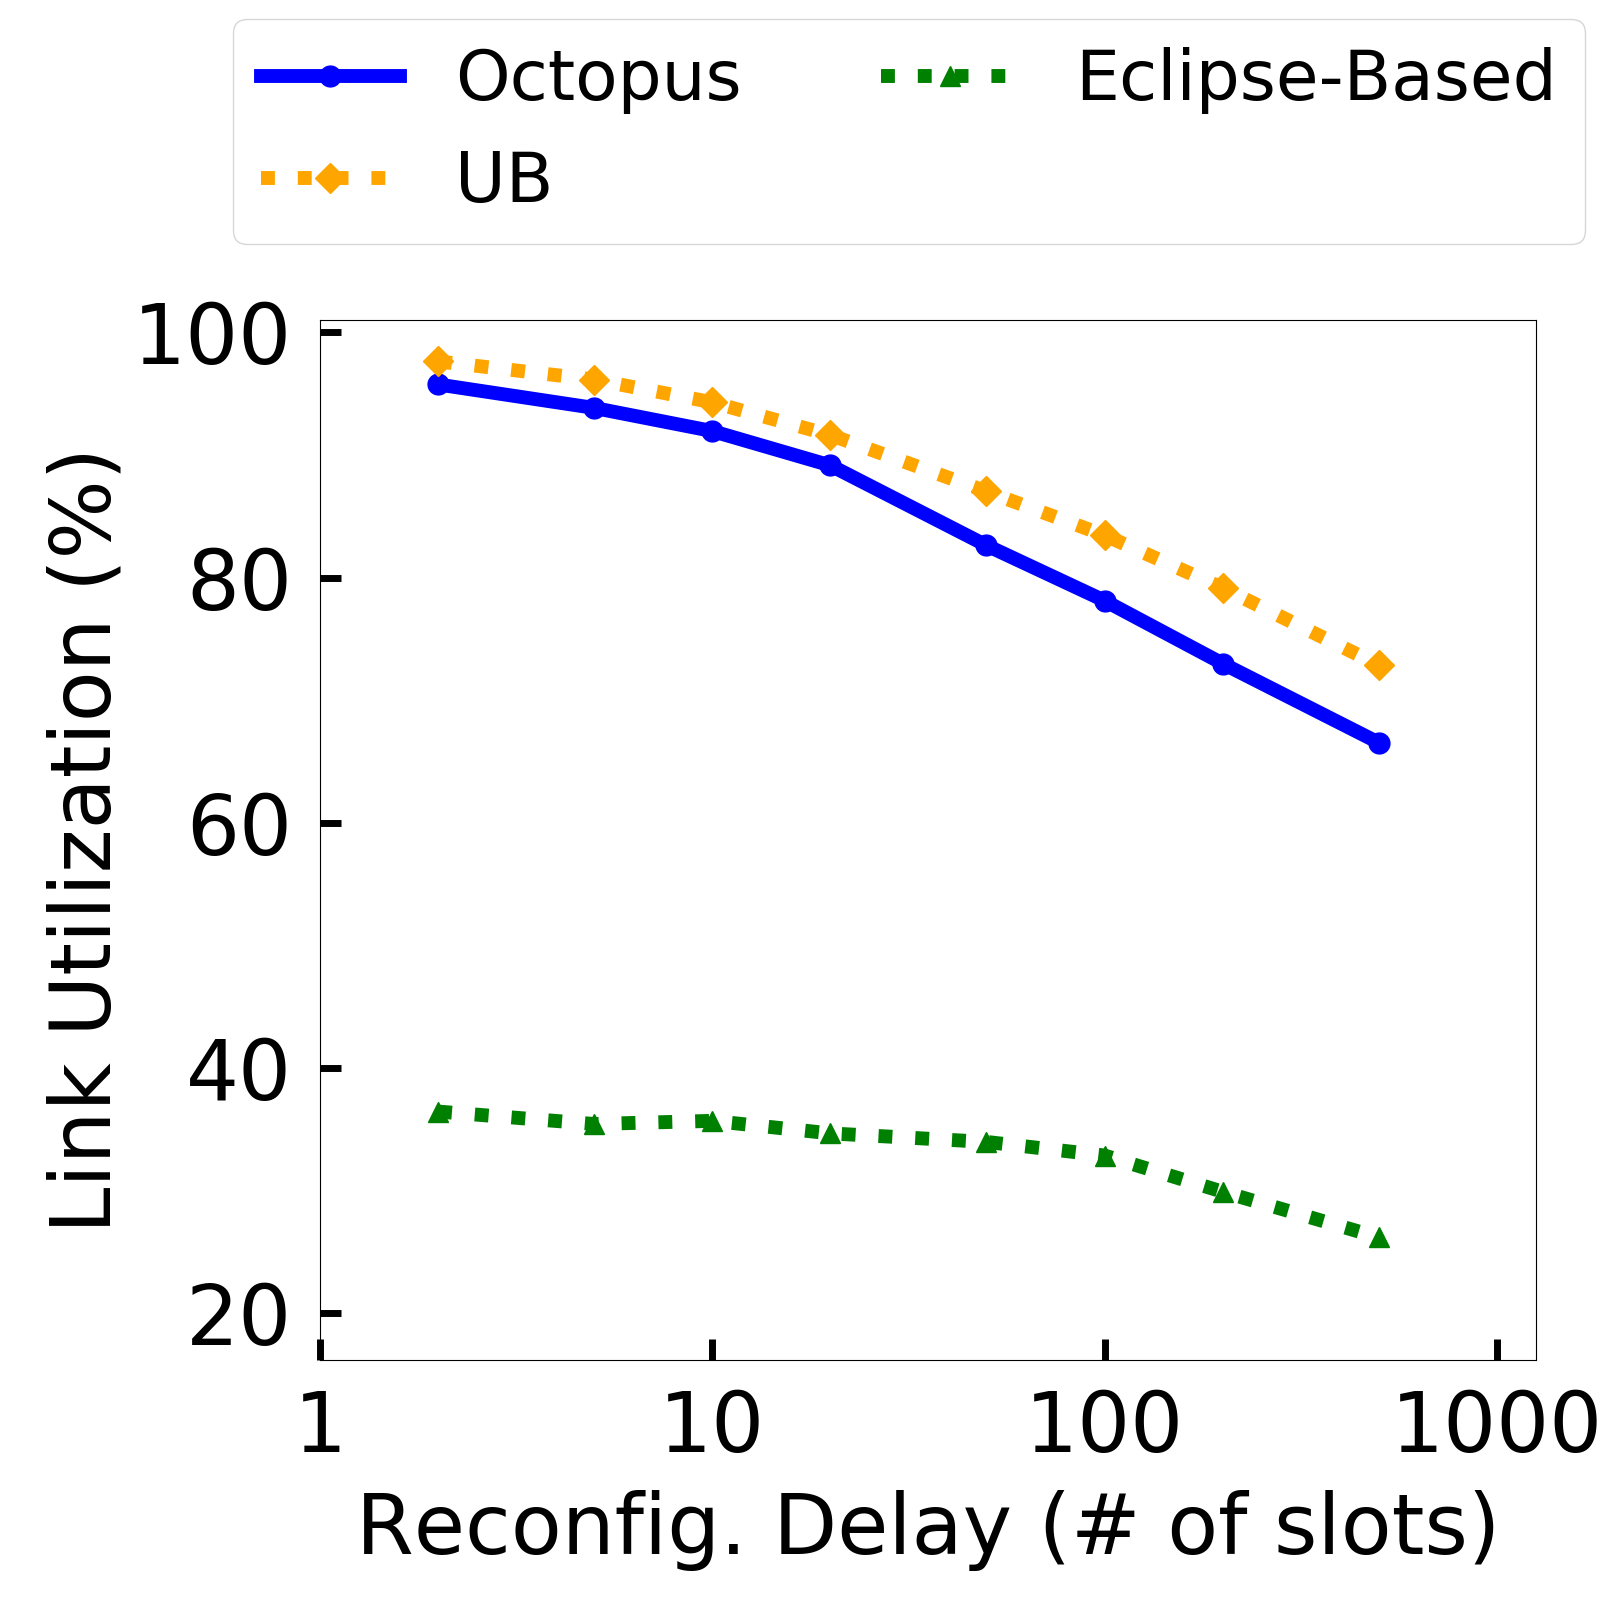
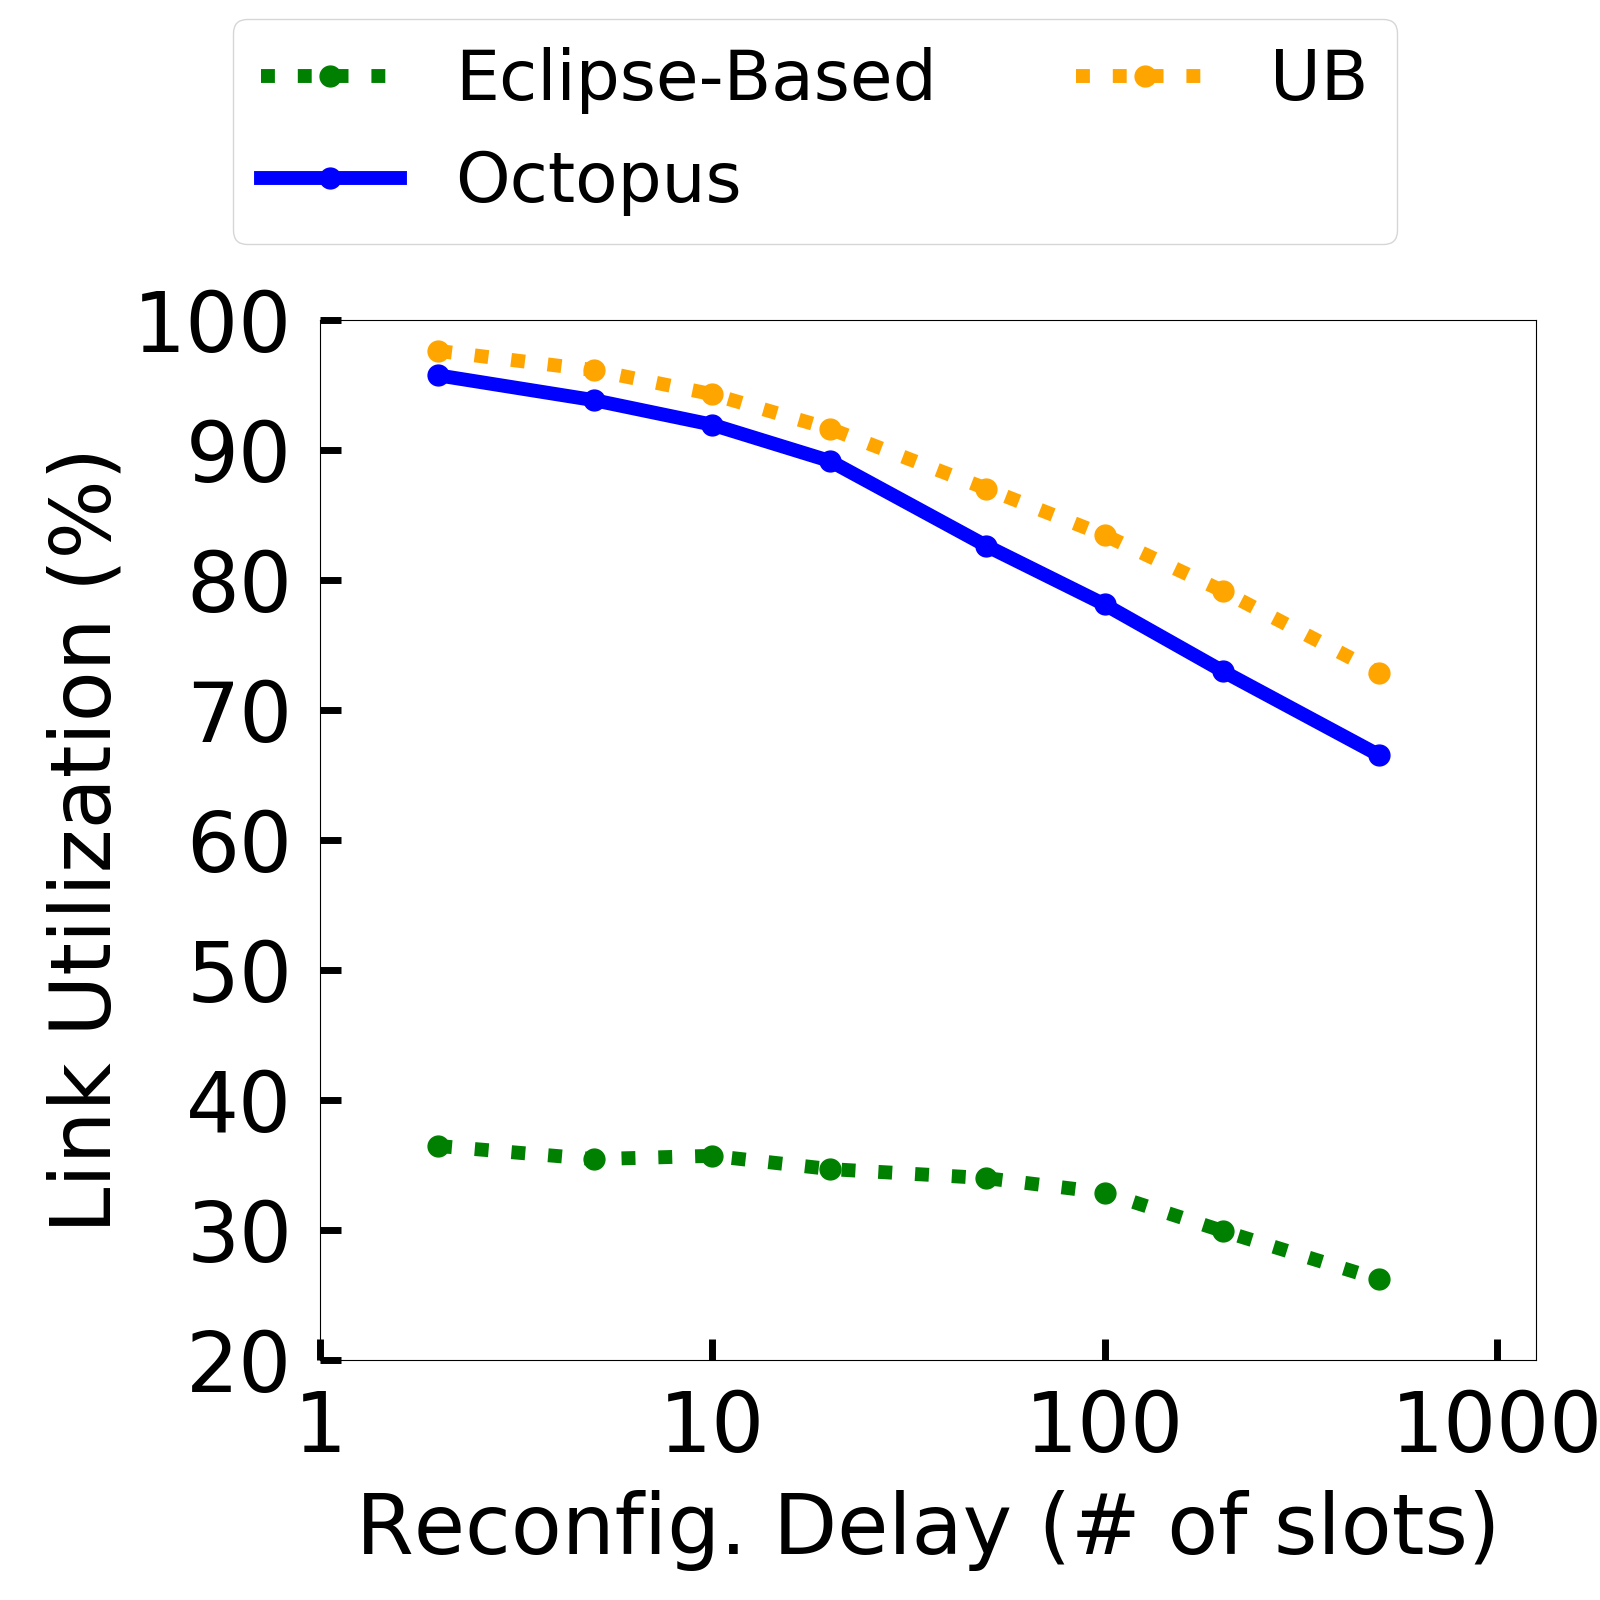
update plots.

diff --git a/plots.py b/plots.py
@@ -14,6 +14,12 @@ from runner import DEFAULT_WINDOW_SIZE
 def average(vals):
 	return float(sum(vals)) / float(len(vals))
 
+def min_max(vals):
+	vals = np.array(vals)
+	return (round(vals.min(), 4), round(vals.max(), 4))
+
+reduce_func  = average
+reduce_func2 = min_max
 
 def getMetric(inpt, output, metric = 'percent_packets_delivered'):
 	if metric == 'percent_packets_delivered':
@@ -42,7 +48,8 @@ def y_fmt(tick_val, pos):
 
 METHOD  = ['Octopus', 'Octopus+', 'Octopus-e', 'Eclipse-Based', 'UB',      'Absolute-UB']
 _COLOR  = ['b',       'c',        'gray',      'g',             'orange',  'r']
-_MARKER = ['o',       'h',        's',         '^',             'D',       'P']
+# _MARKER = ['o',       'h',        's',         '^',             'D',       'P']
+_MARKER = ['o',       'o',        'o',         'o',             'o',       'o']
 _LINE   = ['-',       ':',        ':',         ':',             ':',       '-']
 COLOR   = dict(zip(METHOD, _COLOR))
 MARKER  = dict(zip(METHOD, _MARKER))
@@ -50,10 +57,28 @@ LINE    = dict(zip(METHOD, _LINE))
 
 
 
-def plot_line(table, methods, filename=None, x_label=None, x_log=False, y_label=None, absolute_ub=False):
+def plot_line(table, methods, filename=None, x_label=None, x_log=False, y_label=None, absolute_ub=False, yerr_table=None):
 	'''
 	Args:
 		table: the same table used by function tabulate.tabulate()
+		  NUN_NODE    octopus-r    upper-bound    eclipse
+		----------  -----------  -------------  ---------
+		        25      48.1263        47.4182    38.6041
+		        50      47.3271        47.0469    29.7168
+		        75      51.8396        51.7936    33.1816
+		       100      52.2284        52.0966    32.3763
+		       125      53.7332        53.7551    33.0334
+		       150      53.8109        53.9773    32.2842
+		
+		yerr_table: the same table used by function tabulate.tabulate()
+		  NUN_NODE  octopus-r           upper-bound         eclipse
+		----------  ------------------  ------------------  ------------------
+		       25   (38.8811, 56.3964)  (35.3078, 55.9665)  (25.491, 51.4077)
+		       50   (45.577, 48.3904)   (46.1241, 48.3337)  (27.5965, 32.0417)
+		       75   (49.7072, 55.2583)  (50.6886, 54.9006)  (30.5833, 37.1484)
+		      100   (51.7271, 53.0539)  (51.4198, 52.9464)  (30.8013, 34.1405)
+		      125   (52.5892, 54.7168)  (52.4997, 54.6874)  (31.7188, 34.7831)
+		      150   (52.2469, 54.7792)  (52.0139, 55.1176)  (29.5608, 33.4454)
 	'''
 	fig, ax = plt.subplots(figsize=(16, 16))
 	fig.subplots_adjust(left=0.2, right=0.96, top=0.8, bottom=0.15)
@@ -66,9 +91,24 @@ def plot_line(table, methods, filename=None, x_label=None, x_log=False, y_label=
 	for i in range(1, num+1):
 		y = [row[i] for row in table]
 		Y.append(y)
-	for i in range(0, num):
-		method = methods[i]
-		plt.plot(X, Y[i], linestyle=LINE[method], marker=MARKER[method], color=COLOR[method], label=method)
+	
+	# core plotting
+	if yerr_table is None:
+		for i in range(0, num):
+			method = methods[i]
+			plt.plot(X, Y[i], linestyle=LINE[method], marker=MARKER[method], color=COLOR[method], label=method)
+	else:
+		for i in range(0, num):
+			method = methods[i]
+			col = i + 1
+			min_, max_ = [], []
+			for row in yerr_table:
+				min_.append(row[col][0])
+				max_.append(row[col][1])
+			yerr = np.stack((min_, max_))
+			yerr[0] = Y[i] - yerr[0]
+			yerr[1] = yerr[1] - Y[i]
+			plt.errorbar(X, Y[i], yerr=yerr, capsize=15, capthick=3, elinewidth=5, linestyle=LINE[method], marker=MARKER[method], color=COLOR[method], label=method)
 
 	if absolute_ub and y_label == '% of Packets Deliverd':
 		method = 'Absolute-UB'
@@ -78,25 +118,52 @@ def plot_line(table, methods, filename=None, x_label=None, x_log=False, y_label=
 		if x_label == 'Average # of hops':
 			y = [100, 50, 33]
 			plt.plot(X, y, linestyle=LINE[method], marker=MARKER[method], color=COLOR[method], label=method)
-
+		
 	plt.xticks(X)
 	if x_log:       # log scale on x axis
-		plt.xticks(np.arange(-4, 0, 1), ['1', '10', '100', '1000'], )
+		plt.xticks(np.arange(-4, 0, 1), ['1', '10', '100', '1000'])
 		plt.xlim([-4, -0.9])
 
 	y_min = np.min(np.min(table, 0)[1:]) - 10
 	y_max = 101
 	if y_label == 'Objective Value':   # objective value comes in hundreds of thousands
-		y_min = np.min(np.min(table, 0)[1:])*0.9
-		y_max = np.max(np.max(table, 0)[1:])*1.1
+		y_min_ = np.min(np.min(table, 0)[1:])*0.9
+		y_max_ = np.max(np.max(table, 0)[1:])*1.1
+		y_min = int(100000*(y_min_//100000))
+		y_max = int(100000*(y_max_//100000 + 1))
+		yticks = list(range(y_min, y_max, 100000))
+		plt.yticks(yticks)
 		ax.yaxis.set_major_formatter(tick.FuncFormatter(y_fmt))
 		y_label = y_label + ' ($10^5$)'
+		y_max = int(100000*(y_max_//100000))
+
+	elif y_label == 'Link Utilization (%)' and x_label != 'Various Facebook and Microsoft Clusters':
+		y_min_ = np.min(np.min(table, 0)[1:])*0.9
+		y_max_ = np.max(np.max(table, 0)[1:])*1.1
+		y_min = int(10*(y_min_//10))
+		y_max = int(10*(y_max_//10 + 1))
+		yticks = list(range(y_min, y_max, 10))
+		plt.yticks(yticks)
+		y_max = int(10*(y_max_//10))
+
+	elif y_label == '% of Packets Deliverd' and absolute_ub:
+		y_min_ = np.min(np.min(table, 0)[1:])*0.9
+		y_min = int(10*(y_min_//10))
+		if x_label != 'Average # of hops':
+			y_max = 80
+		if x_label == 'Average # of hops':
+			y_max = 110
+		yticks = list(range(y_min, y_max, 10))
+		plt.yticks(yticks)
+		y_max = 100 if x_label == 'Average # of hops' else 70
 
 	plt.ylim([y_min, y_max])
 	plt.legend(bbox_to_anchor=(-0.1, 1.04), loc='lower left', ncol=2, fontsize=50)
 	ax.tick_params(direction='in', length=15, width=5)
 	ax.tick_params(pad=20)
 
+	if x_label == '# of Nodes':
+		plt.xticks([50, 100, 150, 200, 300])
 	if x_label:
 		ax.set_xlabel(x_label, labelpad=15)
 	if y_label:
@@ -111,12 +178,10 @@ def plot1_1(path):
 	filename = '{}/num_nodes.txt'
 	data = runner.readDataFromFile(filename.format(path))
 
-	methods  = ['octopus-r', 'upper-bound',  'eclipse']
-	methods_ = ['Octopus',     'UB',         'Eclipse-Based']
+	methods  = ['eclipse'      , 'octopus-r', 'upper-bound']
+	methods_ = ['Eclipse-Based', 'Octopus',   'UB']
 	metric   = ['percent_packets_delivered', 'link_utilization']
 	metric_  = ['% of Packets Deliverd',     'Link Utilization (%)']
-
-	reduce_func = average
 
 	for i in range(0, len(metric)):
 		table = defaultdict(list)
@@ -124,22 +189,25 @@ def plot1_1(path):
 			table[(inpt.num_nodes)].append({method: getMetric(inpt, output, metric=metric[i]) for method, output in output_by_method.iteritems()})
 		
 		print_table = [[vs] + [reduce_func([(vals_by_method[method] if method in vals_by_method else None) for vals_by_method in list_of_vals_by_method]) for method in methods] for vs, list_of_vals_by_method in sorted(table.iteritems())]
+		yerr_table  = [[vs] + [reduce_func2([(vals_by_method[method] if method in vals_by_method else None) for vals_by_method in list_of_vals_by_method]) for method in methods] for vs, list_of_vals_by_method in sorted(table.iteritems())]
 		print metric[i]
 		print tabulate.tabulate(print_table, headers = ['NUN_NODE'] + methods)
+		print tabulate.tabulate(yerr_table, headers = ['NUN_NODE'] + methods)
 		print ''
-		plot_line(print_table, methods_, filename='{}/{}-{}'.format(path, metric[i], 'vary_num_node'), x_label='# of Nodes', y_label=metric_[i], absolute_ub=True)
+		if metric[i] == 'percent_packets_delivered':
+			plot_line(print_table, methods_, filename='{}/{}-{}'.format(path, metric[i], 'vary_num_node'), x_label='# of Nodes', y_label=metric_[i], absolute_ub=True, yerr_table=yerr_table)
+		elif metric[i] == 'link_utilization':
+			plot_line(print_table, methods_, filename='{}/{}-{}'.format(path, metric[i], 'vary_num_node'), x_label='# of Nodes', y_label=metric_[i], absolute_ub=True, yerr_table=None)
 
 
 def plot1_2(path):
 	filename = '{}/reconfig_delta.txt'
 	data = runner.readDataFromFile(filename.format(path))
 
-	methods  = ['octopus-r', 'upper-bound', 'eclipse']
-	methods_ = ['Octopus',     'UB',        'Eclipse-Based']
+	methods  = ['eclipse'      , 'octopus-r', 'upper-bound']
+	methods_ = ['Eclipse-Based', 'Octopus',   'UB']
 	metric   = ['percent_packets_delivered', 'link_utilization']
 	metric_  = ['% of Packets Deliverd',     'Link Utilization (%)']
-
-	reduce_func = average
 
 	for i in range(0, len(metric)):
 		table = defaultdict(list)
@@ -147,22 +215,25 @@ def plot1_2(path):
 			table[(inpt.reconfig_delta)].append({method: getMetric(inpt, output, metric=metric[i]) for method, output in output_by_method.iteritems()})
 		
 		print_table = [[vs] + [reduce_func([(vals_by_method[method] if method in vals_by_method else None) for vals_by_method in list_of_vals_by_method]) for method in methods] for vs, list_of_vals_by_method in sorted(table.iteritems())]
+		yerr_table  = [[vs] + [reduce_func2([(vals_by_method[method] if method in vals_by_method else None) for vals_by_method in list_of_vals_by_method]) for method in methods] for vs, list_of_vals_by_method in sorted(table.iteritems())]
 		print metric[i]
 		print tabulate.tabulate(print_table, headers = ['DELTA'] + methods)
+		print tabulate.tabulate(yerr_table, headers = ['DELTA'] + methods)
 		print ''
-		plot_line(print_table, methods_, filename='{}/{}-{}'.format(path, metric[i], 'vary_delta'), x_label='Reconfig. Delay (# of slots)', x_log=True, y_label=metric_[i], absolute_ub=True)
+		if metric[i] == 'percent_packets_delivered':
+			plot_line(print_table, methods_, filename='{}/{}-{}'.format(path, metric[i], 'vary_delta'), x_label='Reconfig. Delay (# of slots)', x_log=True, y_label=metric_[i], absolute_ub=True, yerr_table=yerr_table)
+		elif metric[i] == 'link_utilization':
+			plot_line(print_table, methods_, filename='{}/{}-{}'.format(path, metric[i], 'vary_delta'), x_label='Reconfig. Delay (# of slots)', x_log=True, y_label=metric_[i], absolute_ub=True, yerr_table=None)
 
 
 def plot1_3(path):
 	filename = '{}/skewness.txt'
 	data = runner.readDataFromFile(filename.format(path))
 
-	methods  = ['octopus-r', 'upper-bound', 'eclipse']
-	methods_ = ['Octopus',     'UB',        'Eclipse-Based']
+	methods  = ['eclipse'      , 'octopus-r', 'upper-bound']
+	methods_ = ['Eclipse-Based', 'Octopus',   'UB']
 	metric   = ['percent_packets_delivered', 'link_utilization']
 	metric_  = ['% of Packets Deliverd',     'Link Utilization (%)']
-
-	reduce_func = average
 
 	for i in range(0, len(metric)):
 		table = defaultdict(list)
@@ -170,22 +241,24 @@ def plot1_3(path):
 			table[(inpt.cs)].append({method: getMetric(inpt, output, metric=metric[i]) for method, output in output_by_method.iteritems()})
 		
 		print_table = [[int(vs*100)] + [reduce_func([(vals_by_method[method] if method in vals_by_method else None) for vals_by_method in list_of_vals_by_method]) for method in methods] for vs, list_of_vals_by_method in sorted(table.iteritems())]
+		yerr_table  = [[vs] + [reduce_func2([(vals_by_method[method] if method in vals_by_method else None) for vals_by_method in list_of_vals_by_method]) for method in methods] for vs, list_of_vals_by_method in sorted(table.iteritems())]
 		print metric[i]
 		print tabulate.tabulate(print_table, headers = ['CS'] + methods)
 		print ''
-		plot_line(print_table, methods_, filename='{}/{}-{}'.format(path, metric[i], 'skewness'), x_label='% of traffic by small flows', y_label=metric_[i], absolute_ub=True)
+		if metric[i] == 'percent_packets_delivered':
+			plot_line(print_table, methods_, filename='{}/{}-{}'.format(path, metric[i], 'skewness'), x_label='% of traffic by small flows', y_label=metric_[i], absolute_ub=True, yerr_table=yerr_table)
+		elif metric[i] == 'link_utilization':
+			plot_line(print_table, methods_, filename='{}/{}-{}'.format(path, metric[i], 'skewness'), x_label='% of traffic by small flows', y_label=metric_[i], absolute_ub=True, yerr_table=None)
 
 
 def plot1_4(path):
 	filename = '{}/sparsity.txt'
 	data = runner.readDataFromFile(filename.format(path))
 
-	methods  = ['octopus-r', 'upper-bound', 'eclipse']
-	methods_ = ['Octopus',     'UB',        'Eclipse-Based']
+	methods  = ['eclipse'      , 'octopus-r', 'upper-bound']
+	methods_ = ['Eclipse-Based', 'Octopus',   'UB']
 	metric   = ['percent_packets_delivered', 'link_utilization']
 	metric_  = ['% of Packets Deliverd',     'Link Utilization (%)']
-
-	reduce_func = average
 
 	for i in range(0, len(metric)):
 		table = defaultdict(list)
@@ -193,10 +266,14 @@ def plot1_4(path):
 			table[(inpt.nl, inpt.ns)].append({method: getMetric(inpt, output, metric=metric[i]) for method, output in output_by_method.iteritems()})
 		
 		print_table = [[int(vs[0])+int(vs[1])] + [reduce_func([(vals_by_method[method] if method in vals_by_method else None) for vals_by_method in list_of_vals_by_method]) for method in methods] for vs, list_of_vals_by_method in sorted(table.iteritems())]
+		yerr_table  = [[vs] + [reduce_func2([(vals_by_method[method] if method in vals_by_method else None) for vals_by_method in list_of_vals_by_method]) for method in methods] for vs, list_of_vals_by_method in sorted(table.iteritems())]
 		print metric[i]
 		print tabulate.tabulate(print_table, headers = ['NL+NS'] + methods)
 		print ''
-		plot_line(print_table, methods_, filename='{}/{}-{}'.format(path, metric[i], 'sparsity'), x_label='flows per node', y_label=metric_[i], absolute_ub=True)
+		if metric[i] == 'percent_packets_delivered':
+			plot_line(print_table, methods_, filename='{}/{}-{}'.format(path, metric[i], 'sparsity'), x_label='flows per node', y_label=metric_[i], absolute_ub=True, yerr_table=yerr_table)
+		elif metric[i] == 'link_utilization':
+			plot_line(print_table, methods_, filename='{}/{}-{}'.format(path, metric[i], 'sparsity'), x_label='flows per node', y_label=metric_[i], absolute_ub=True, yerr_table=None)
 
 
 def plot2_1(path):
@@ -205,8 +282,6 @@ def plot2_1(path):
 	methods  = ['octopus-r', 'upper-bound', 'eclipse']
 	metrics  = ['percent_packets_delivered']
 	metrics_ = ['% of Packets Deliverd']
-
-	reduce_func = average
 
 	for metric, metric_ in zip(metrics, metrics_):
 		table = defaultdict(list)
@@ -252,8 +327,6 @@ def plot2_2(path):
 	metrics  = ['link_utilization']
 	metrics_ = ['Link Utilization (%)']
 
-	reduce_func = average
-
 	for metric, metric_ in zip(metrics, metrics_):
 		table = defaultdict(list)
 		for inpt, output_by_method in data:
@@ -283,7 +356,7 @@ def plot2_2(path):
 		plt.legend(bbox_to_anchor=(0, 1.04), loc='lower left', ncol=4, fontsize=45)
 		ax.tick_params(axis='y', direction='in', length=10, width=3, pad=15)
 		ax.set_ylabel(metric_)
-		ax.set_ylim([0, 100])
+		ax.set_ylim([0, 80])
 		ax.set_xlabel('Various Facebook and Microsoft Clusters')
 		plt.xticks(ind, ['FB-1', 'FB-2', 'FB-3', 'MS-1', 'MS-2', 'MS-3'], fontsize=45)
 		plt.savefig('{}/{}-real_traffic'.format(path, metric))
@@ -295,8 +368,6 @@ def plot2_(path, file):
 	methods  = ['octopus-r', 'split']
 	metrics  = ['percent_packets_delivered']
 	metrics_ = ['% of Packets Deliverd']
-
-	reduce_func = average
 
 	for metric, metric_ in zip(metrics, metrics_):
 		table = defaultdict(list)
@@ -338,8 +409,6 @@ def plot3(path):
 	metric   = ['percent_objective_value']
 	metric_  = [ 'Packets Del. as a % of $\\psi$']
 
-	reduce_func = average
-
 	for i in range(0, len(metric)):
 		table = defaultdict(list)
 		for inpt, output_by_method in data:
@@ -361,8 +430,6 @@ def plot4(path):
 	metric   = ['percent_packets_delivered']
 	metric_  = ['% of Packets Deliverd']
 
-	reduce_func = average
-
 	for i in range(0, len(metric)):
 		table = defaultdict(list)
 		for inpt, output_by_method in data:
@@ -383,8 +450,6 @@ def plot5(path):
 	methods_ = ['Octopus',   'UB',          'Octopus-e']
 	metrics   = ['percent_packets_delivered', 'objective_value']
 	metrics_  = ['% of Packets Deliverd', 'Objective Value']
-
-	reduce_func = average
 
 	for metric, metric_ in zip(metrics, metrics_):
 		table = defaultdict(list)
@@ -408,14 +473,14 @@ if __name__ == '__main__':
 
 	path = 'data/6-23'
 
-	# plot1_1(path)  # num of nodes
-	# plot1_2(path)  # reconfig delta
-	# plot1_3(path)  # skewness
-	# plot1_4(path)  # sparsity
-	# plot2_1(path)    # real traffic
+	plot1_1(path)  # num of nodes
+	plot1_2(path)  # reconfig delta
+	plot1_3(path)  # skewness
+	plot1_4(path)  # sparsity
+	plot2_1(path)    # real traffic
 	plot2_2(path)    # real traffic
-	# plot3(path)    # reconfig delta + percentage objective value
-	# plot4(path)    # reconfig delta + octopus+/R
-	# plot5(path)    # average hop count
+	plot3(path)    # reconfig delta + objective value
+	plot4(path)    # reconfig delta + octopus+/R
+	plot5(path)    # average hop count
 
 	# plot2_(path, 'real_traffic-10-merge')    # real traffic
